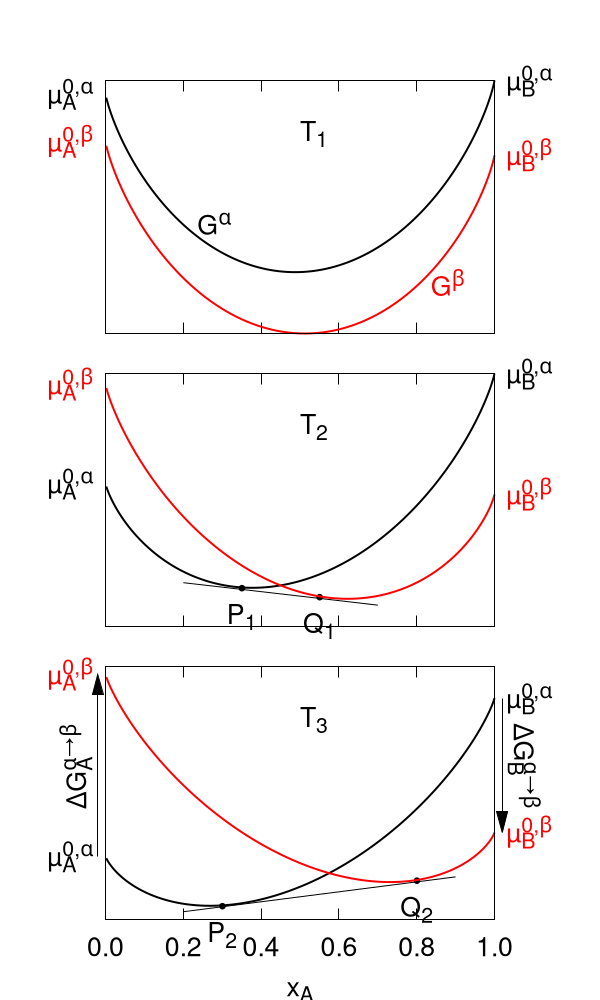
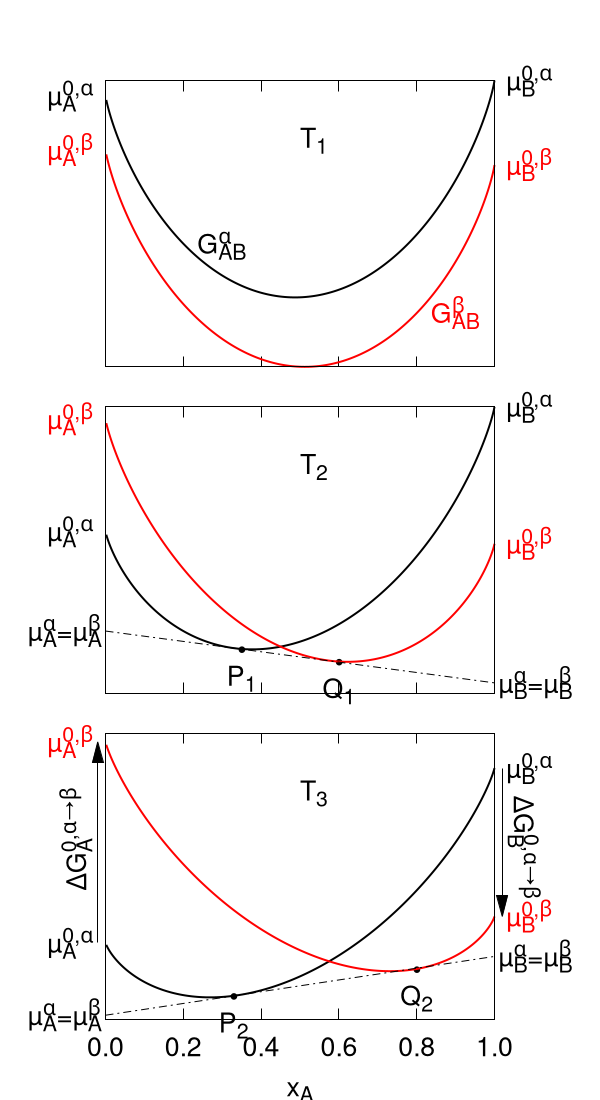
tangeant

diff --git a/content/posts/0003-charge-discharge-curves/index.md b/content/posts/0003-charge-discharge-curves/index.md
@@ -199,13 +199,13 @@ The curve on the bottom is therefore representative of a charging curve for a si
 
 ### Thermodynamic of two phases
 
-Let's now consider that there are still two components, $A$ and $B$, but that there can be two phases, say $\alpha$ and $\beta$. 
+Let's now consider that there are still two components, $A$ and $B$, but that there can be two possible phases, say $\alpha$ and $\beta$. 
 For each of them, Eq. 2 is valid. 
 One can therefore draw curves at different temperatures and observe their evolution:
 
 ![](twophase_T.png)
 
-**Figure:** Evolution of $G^\alpha$ and $G^\beta$ with the temperature, with $T_1 > T_2 > T_3$ (inspired by [10.1016/B978-0-444-53770-6.00003-4](https://doi.org/10.1016/B978-0-444-53770-6.00003-4)).
+**Figure:** Evolution of $G^\alpha_{AB}$ and $G^\beta_{AB}$ with the temperature, assuming $T_1 > T_2 > T_3$ (inspired by [10.1016/B978-0-444-53770-6.00003-4](https://doi.org/10.1016/B978-0-444-53770-6.00003-4)).
 
 In addition, at equilibrium, the (electro)chemical potential of a given compound is equal, thus $\mu_A^\alpha = \mu_A^\beta$ and $\mu_B^\alpha = \mu_B^\beta$.
 
